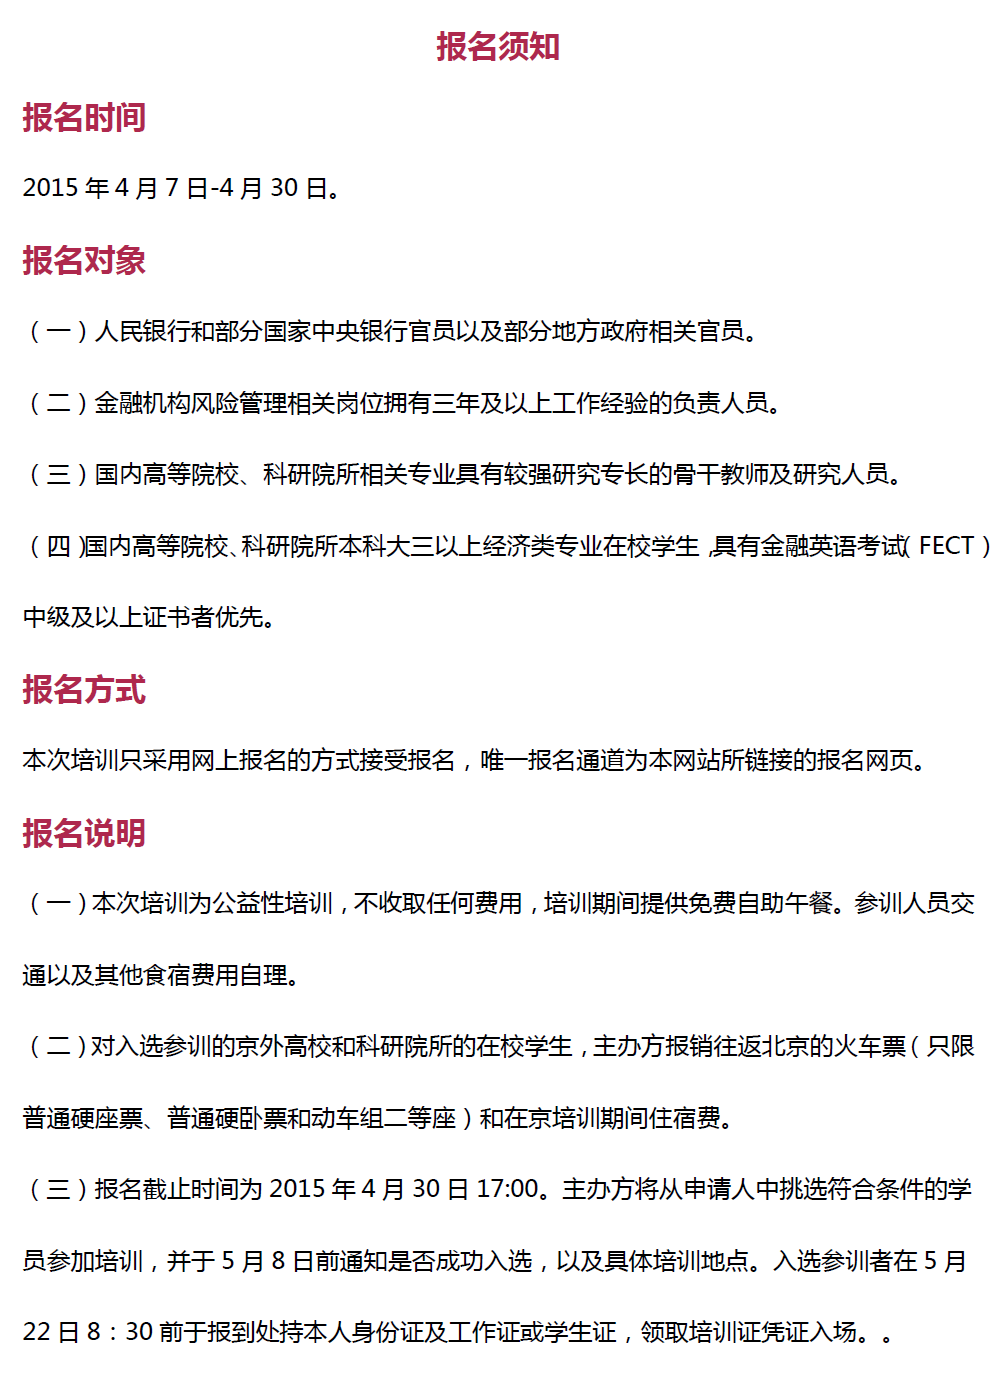
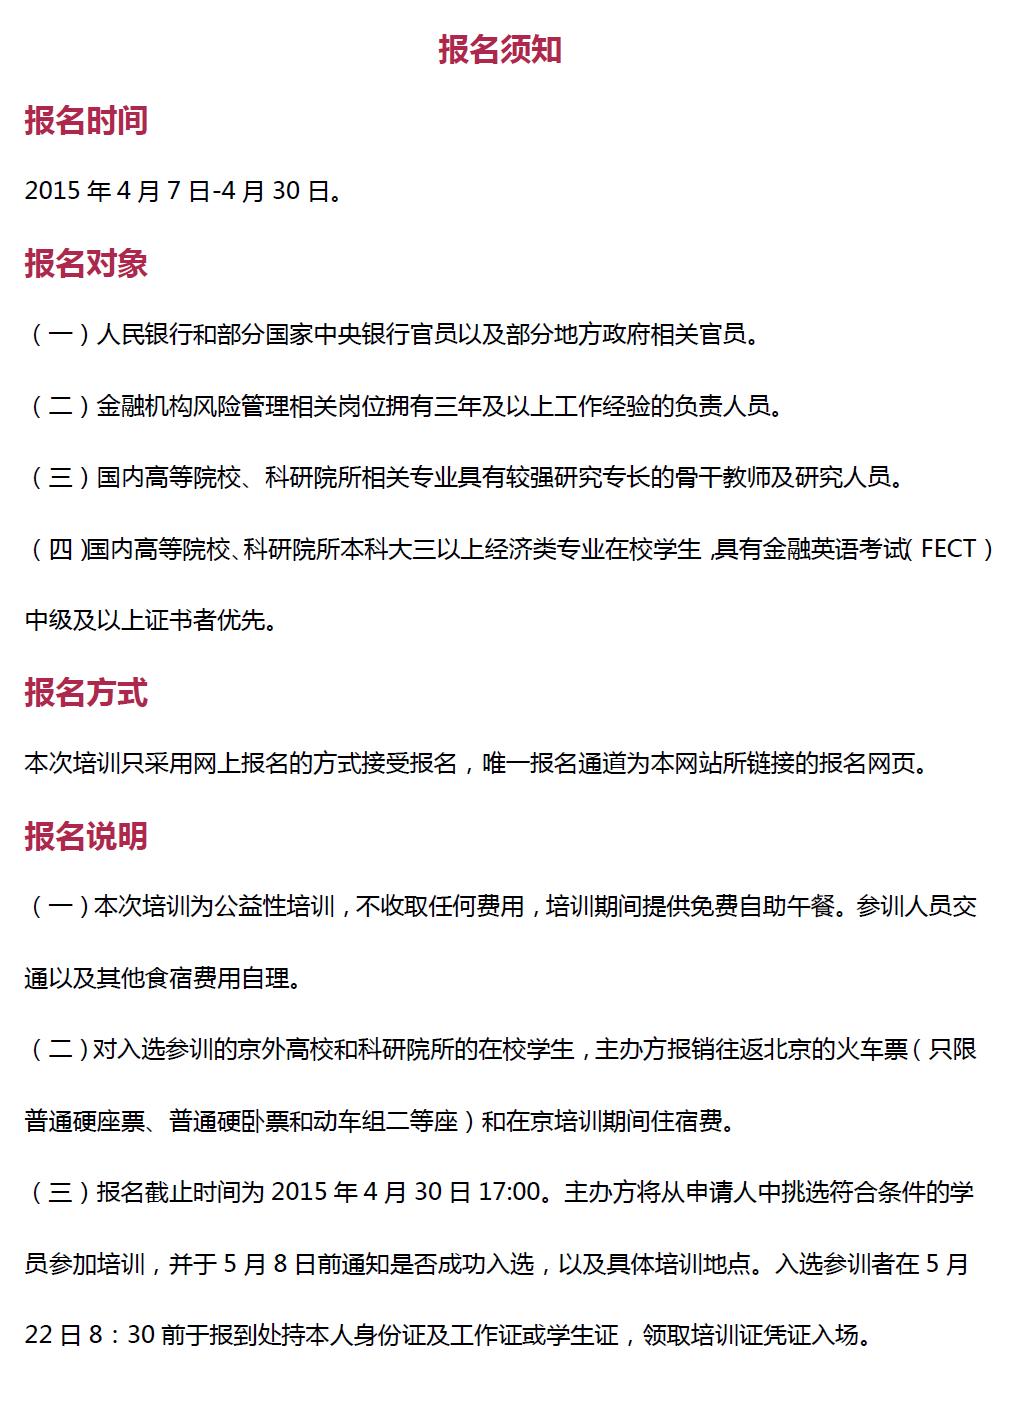
add files by wangpengfei

diff --git a/App/View/Home/gdpx_apply.html b/App/View/Home/gdpx_apply.html
@@ -7,7 +7,7 @@
   <%- include ../a_header.html %>
   <div class="container">
     <div class="bmxz">
-      <img src="/resource/img/bmxz_1.png" alt="报名须知" width="1007">
+      <img src="/resource/img/bmxz_1.png" alt="报名须知" width="1014">
       <div class="text-center">
         <button class="btn btn-primary" id="has_see_bmxz">确定</button>
       </div>
@@ -56,6 +56,25 @@
       </div>
       <div class="row">
         <div class="form-group col-md-4">
+          <label for="address">通讯地址<em class="text-danger">*(必填)</em></label>
+          <input type="text" class="form-control input-lg" name="address" placeholder="通讯地址">
+        </div>
+        <div class="form-group col-md-4">
+          <label for="zipcode">邮编<em class="text-danger">*(必填)</em></label>
+          <input type="text" class="form-control input-lg" name="zipcode" placeholder="邮编">
+        </div>
+        <div class="form-group col-md-4">
+          <label for="education">学历<em class="text-danger">*(必填)</em></label>
+          <select class="form-control input-lg" name="education" placeholder="学历">
+            <option>本科</option>
+            <option>硕士</option>
+            <option>博士</option>
+            <option>其他</option>
+          </select>
+        </div>
+      </div>
+      <div class="row">
+        <div class="form-group col-md-4">
           <label for="nation" class="control-label">民族<em class="text-danger"></em></label>
           <input type="text" class="form-control input-lg" name="nation" placeholder="民族">
         </div>
@@ -69,93 +88,46 @@
         </div>
       </div>
       <div class="row">
-        <div class="form-group col-md-4">
-          <label for="address">通讯地址<em class="text-danger"></em></label>
-          <input type="text" class="form-control input-lg" name="address" placeholder="通讯地址">
-        </div>
-        <div class="form-group col-md-4">
-          <label for="zipcode">邮编<em class="text-danger"></em></label>
-          <input type="text" class="form-control input-lg" name="zipcode" placeholder="邮编">
-        </div>
-        <div class="form-group col-md-4">
-          <label for="education">学历<em class="text-danger"></em></label>
-          <select class="form-control input-lg" name="education" placeholder="学历">
-            <option>本科</option>
-            <option>硕士</option>
-            <option>博士</option>
-            <option>其他</option>
-          </select>
-        </div>
-      </div>
-      <div class="row">
         <div class="form-group col-md-12">
-          <label for="result">主要学术成果</label>
-          <textarea class="form-control" name="result" rows="3"></textarea>
+          <label for="result">主要学术成果<em class="text-danger">*(必填)</em></label>
+          <textarea class="form-control" name="result" rows="3" placeholder="您的学术研究成果将帮助我们进行资格审查，有助于您的通过；若没有任何学术成功请填写无！"></textarea>
         </div>
       </div>
-      <div class="row people-wrap finace-people hide">
+      <div class="row people-wrap finace-people gov-people else-people hide">
         <div class="form-group col-md-6">
-        <label for="unit">单位<em class="text-danger"></em></label>
+        <label for="unit">单位<em class="text-danger">*(必填)</em></label>
           <input type="text" class="form-control input-lg" name="unit" placeholder="单位">
         </div>
         <div class="form-group col-md-6">
-          <label for="career_name">职称<em class="text-danger"></em></label>
+          <label for="career_name">职称<em class="text-danger">*(必填)</em></label>
           <input type="text" class="form-control input-lg" name="career_name" placeholder="职称">
         </div>
         <div class="form-group col-md-12">
-          <label for="work_experience">主要工作经历<em class="text-danger"></em></label>
-          <textarea class="form-control" name="career_name" rows="3"></textarea>
-        </div>
-      </div>
-      <div class="row people-wrap gov-people hide">
-        <div class="form-group col-md-6">
-        <label for="unit">单位<em class="text-danger"></em></label>
-          <input type="text" class="form-control input-lg" name="unit" placeholder="单位">
-        </div>
-        <div class="form-group col-md-6">
-          <label for="career_name">职称<em class="text-danger"></em></label>
-          <input type="text" class="form-control input-lg" name="career_name" placeholder="职称">
-        </div>
-        <div class="form-group col-md-12">
-          <label for="work_experience">主要工作经历<em class="text-danger"></em></label>
-          <textarea class="form-control" name="career_name" rows="3"></textarea>
-        </div>
-      </div>
-      <div class="row people-wrap else-people hide">
-        <div class="form-group col-md-6">
-        <label for="unit">单位<em class="text-danger"></em></label>
-          <input type="text" class="form-control input-lg" name="unit" placeholder="单位">
-        </div>
-        <div class="form-group col-md-6">
-          <label for="career_name">职称<em class="text-danger"></em></label>
-          <input type="text" class="form-control input-lg" name="career_name" placeholder="职称">
-        </div>
-        <div class="form-group col-md-12">
-          <label for="work_experience">主要工作经历<em class="text-danger"></em></label>
-          <textarea class="form-control" name="career_name" rows="3"></textarea>
+          <label for="work_experience">主要工作经历<em class="text-danger">*(必填)</em></label>
+          <textarea class="form-control" name="work_experience" rows="3"></textarea>
         </div>
       </div>
       <div class="row people-wrap teacher-people hide">
         <div class="form-group col-md-6">
-          <label for="unit">单位<em class="text-danger"></em></label>
+          <label for="unit">单位<em class="text-danger">*(必填)</em></label>
           <input type="text" class="form-control input-lg" name="unit" placeholder="单位">
         </div>
         <div class="form-group col-md-6">
-          <label for="career_name">职称<em class="text-danger"></em></label>
+          <label for="career_name">职称<em class="text-danger">*(必填)</em></label>
           <input type="text" class="form-control input-lg" name="career_name" placeholder="职称">
         </div>
         <div class="form-group col-md-12">
-          <label for="research">主要研究方向<em class="text-danger"></em></label>
+          <label for="research">主要研究方向<em class="text-danger">*(必填)</em></label>
           <textarea class="form-control" name="research" rows="3"></textarea>
         </div>
       </div>
       <div class="row people-wrap student-people hide">
         <div class="form-group col-md-6">
-          <label for="school">学校<em class="text-danger"></em></label>
+          <label for="school">学校<em class="text-danger">*(必填)</em></label>
           <input type="text" class="form-control input-lg" name="school" placeholder="学校">
         </div>
         <div class="form-group col-md-6">
-          <label for="s_class">年级<em class="text-danger"></em></label>
+          <label for="s_class">年级<em class="text-danger">*(必填)</em></label>
           <select class="form-control input-lg" name="s_class" placeholder="年级">
             <option>大一</option>
             <option>大二</option>
@@ -171,12 +143,12 @@
           </select>
         </div>
         <div class="form-group col-md-6">
-          <label for="department">所学专业<em class="text-danger"></em></label>
+          <label for="department">所学专业<em class="text-danger">*(必填)</em></label>
           <input type="text" class="form-control input-lg" name="department" placeholder="所学专业">
         </div>
         <div class="form-group col-md-6">
-          <label for="english">英语水平<em class="text-danger"></em></label>
-          <input type="text" class="form-control input-lg" name="english" placeholder="所获取的英语证书">
+          <label for="english">英语水平<em class="text-danger">*(必填)</em></label>
+          <input type="text" class="form-control input-lg" name="english" placeholder="所获取的英语证书；如没有任何英语证书请填写无！">
         </div>
         <div class="form-group col-md-6">
           <label for="student_id">学号<em class="text-danger"></em></label>
@@ -190,8 +162,8 @@
           </div>
         </div>
         <div class="form-group col-md-12">
-          <label for="study">个人学习经历<em class="text-danger"></em></label>
-          <textarea class="form-control" name="study" rows="3"></textarea>
+          <label for="study">个人学习经历<em class="text-danger">*(必填)</em></label>
+          <textarea class="form-control" name="study" rows="3" placeholder="请从中学填起"></textarea>
         </div>
       </div>
       <div class="row">

diff --git a/www/resource/js/gdpx/apply.js b/www/resource/js/gdpx/apply.js
@@ -72,47 +72,97 @@ define(function(require,exports,module) {
         is_agree = false;
         $('#submit_btn').attr('title',"请先阅读服务条款！");
       }
-    })
+    });
+    var cansubmit = true;
+    function checkScroll(name,label){
+      if(!label){
+        label = 'input'
+      };
+      var selector = label + '[name="' + name + '"]';
+      cansubmit = false;
+      $(selector).parent().addClass('has-error');
+      var offset = $(selector).parent().offset();
+      scroll(offset.top);
+    }
     $('#submit_btn').on('click',function(e) {
+      cansubmit = true;
+      $('.has-error','#activity_form').removeClass('has-error')
       if(!is_agree){
         $('#textarea_fwtk').parent().addClass('has-error');
         return;
       }
+
       alifenxi.track('提交点击');
       var values = {};
+
       $.each($('#activity_form').serializeArray(), function(i, field) {
           values[field.name] = field.value;
       });
       if(!values['username']){
-        $('input[name="username"]').parent().addClass('has-error');
-        var offset = $('input[name="username"]').parent().offset();
-        scroll(offset.top, offset.left);
+        checkScroll('username');
       }else if(!values['sex']){
+        cansubmit = false;
         $('input[name="sex"]').parent().parent().addClass('has-error');
         var offset = $('input[name="sex"]').parent().parent().offset();
         scroll(offset.top);
       }else if(!values['idcardnum']){
-        $('input[name="idcardnum"]').parent().addClass('has-error')
-        var offset = $('input[name="idcardnum"]').parent().offset();
-        scroll(offset.top);
+        checkScroll('idcardnum');
       }else if(!values['email'] || !testType('email',values['email'])){
-        $('input[name="email"]').parent().addClass('has-error');
-        var offset = $('input[name="email"]').parent().offset();
-        scroll(offset.top);
+        checkScroll('email');
       }else if(!values['mobile'] || !testType('num',values['mobile'])){
-        $('input[name="mobile"]').parent().addClass('has-error');
-        var offset = $('input[name="mobile"]').parent().offset();
-        scroll(offset.top);
+        checkScroll('mobile');
       }else if(!values['career']){
-        $('select[name="career"]').parent().addClass('has-error');
-        var offset = $('input[name="career"]').parent().offset();
-        scroll(offset.top);
-      }else{
-        $.post("/gdpx/apply",values,function(result){
-          if(result.err == 0){
-            alert('注册成功!')
-          }
-        },'json')
+        checkScroll('career', 'select');
+      }else if(!values['address']){
+        checkScroll('address');
+      }else if(!values['zipcode']){
+        checkScroll('zipcode');
+      }else if(!values['education']){
+        checkScroll('education', 'select');
+      }else if(!values['result']){
+        checkScroll('result','textarea');
       }
+      if(cansubmit){
+        if(values['career'] == "公务员" || values['career'] == "金融机构从业人员" || values['career'] == "其他"){
+          values['unit'] = $('input[name="unit"]','.finace-people.row').val();
+          values['career_name'] = $('input[name="career_name"]','.finace-people.row').val();
+          values['work_experience'] = $('textarea[name="work_experience"]','.finace-people.row').val();
+          if(!values['unit']){
+            checkScroll('unit');
+          }else if(!values['career_name']){
+            checkScroll('career_name');
+          }else if(!values['work_experience']){
+            checkScroll('work_experience','textarea');
+          }
+        }else if(values['career'] == "教师"){
+          values['unit'] = $('input[name="unit"]','.teacher-people.row').val();
+          values['career_name'] = $('input[name="career_name"]','.teacher-people.row').val();
+          if(!values['unit']){
+            checkScroll('unit');
+          }else if(!values['career_name']){
+            checkScroll('career_name');
+          }else if(!values['research']){
+            checkScroll('research','textarea');
+          }
+        }else if(values['career'] == "学生"){
+          if(!values['school']){
+            checkScroll('school');
+          }else if(!values['s_class']){
+            checkScroll('s_class','select');
+          }else if(!values['department']){
+            checkScroll('department');
+          }else if(!values['english']){
+            checkScroll('english');
+          }else if(!values['study']){
+            checkScroll('study','textarea');
+          }
+        }
+      }
+
+      cansubmit && $.post("/gdpx/apply",values,function(result){
+        if(result.err == 0){
+          alert('注册成功!')
+        }
+      },'json')
     })
 })

diff --git a/App/View/Home/gdpx_item.html b/App/View/Home/gdpx_item.html
@@ -73,11 +73,11 @@
       <div class="row people-wrap finace-people<% if(user.career == '金融机构从业人员' || user.career == '公务员' || user.career == '其他'){%><%}else{%> hide<%}%>">
         <div class="form-group col-md-4">
         <label for="unit">单位</label>
-          <input readonly type="text" class="form-control input-lg" name="unit" placeholder="单位" value="<%-user.unit%>">
+          <input readonly type="text" class="form-control input-lg" name="unit" placeholder="单位" value="<%=user.unit%>">
         </div>
         <div class="form-group col-md-4">
           <label for="career_name">职称</label>
-          <input readonly type="text" class="form-control input-lg" name="career_name" placeholder="职称">
+          <input readonly type="text" class="form-control input-lg" name="career_name" placeholder="职称" value="<%=user.career_name%>">
         </div>
         <div class="form-group col-md-12">
           <label for="work_experience">主要工作经历</label>
@@ -87,11 +87,11 @@
       <div class="row people-wrap teacher-people <% if(user.career == '教师'){%><%}else{%>hide<%}%>">
         <div class="form-group col-md-4">
           <label for="unit">单位</label>
-          <input readonly type="text" class="form-control input-lg" name="unit" placeholder="单位" value="<%-user.unit%>">
+          <input readonly type="text" class="form-control input-lg" name="unit" placeholder="单位" value="<%=user.unit%>">
         </div>
         <div class="form-group col-md-4">
           <label for="career_name">职称</label>
-          <input readonly type="text" class="form-control input-lg" name="career_name" placeholder="职称" value="<%-user.career_name%>">
+          <input readonly type="text" class="form-control input-lg" name="career_name" placeholder="职称" value="<%=user.career_name%>">
         </div>
         <div class="form-group col-md-12">
           <label for="research">主要研究方向</label>
@@ -117,7 +117,7 @@
         </div>
         <div class="form-group col-md-4">
           <label for="student_id">学号</label>
-          <input readonly type="text" class="form-control input-lg" name="student_id" placeholder="学号" value="<%-user.student_id%>">
+          <input readonly type="text" class="form-control input-lg" name="student_id" placeholder="学号" value="<%=user.student_id%>">
         </div>
         <div class="form-group col-md-4">
           <label for="student_ismeeting">是否愿意参加5月23日晚与达莱尔•达菲的座谈会</label>

diff --git a/www/resource/css/layout.css b/www/resource/css/layout.css
@@ -271,7 +271,7 @@ img.a-logo{
   width: 97%;
 }
 .bmxz{
-  width: 1007px;
+  width: 1014px;
   margin: 10px auto;
   display: none;
 }
